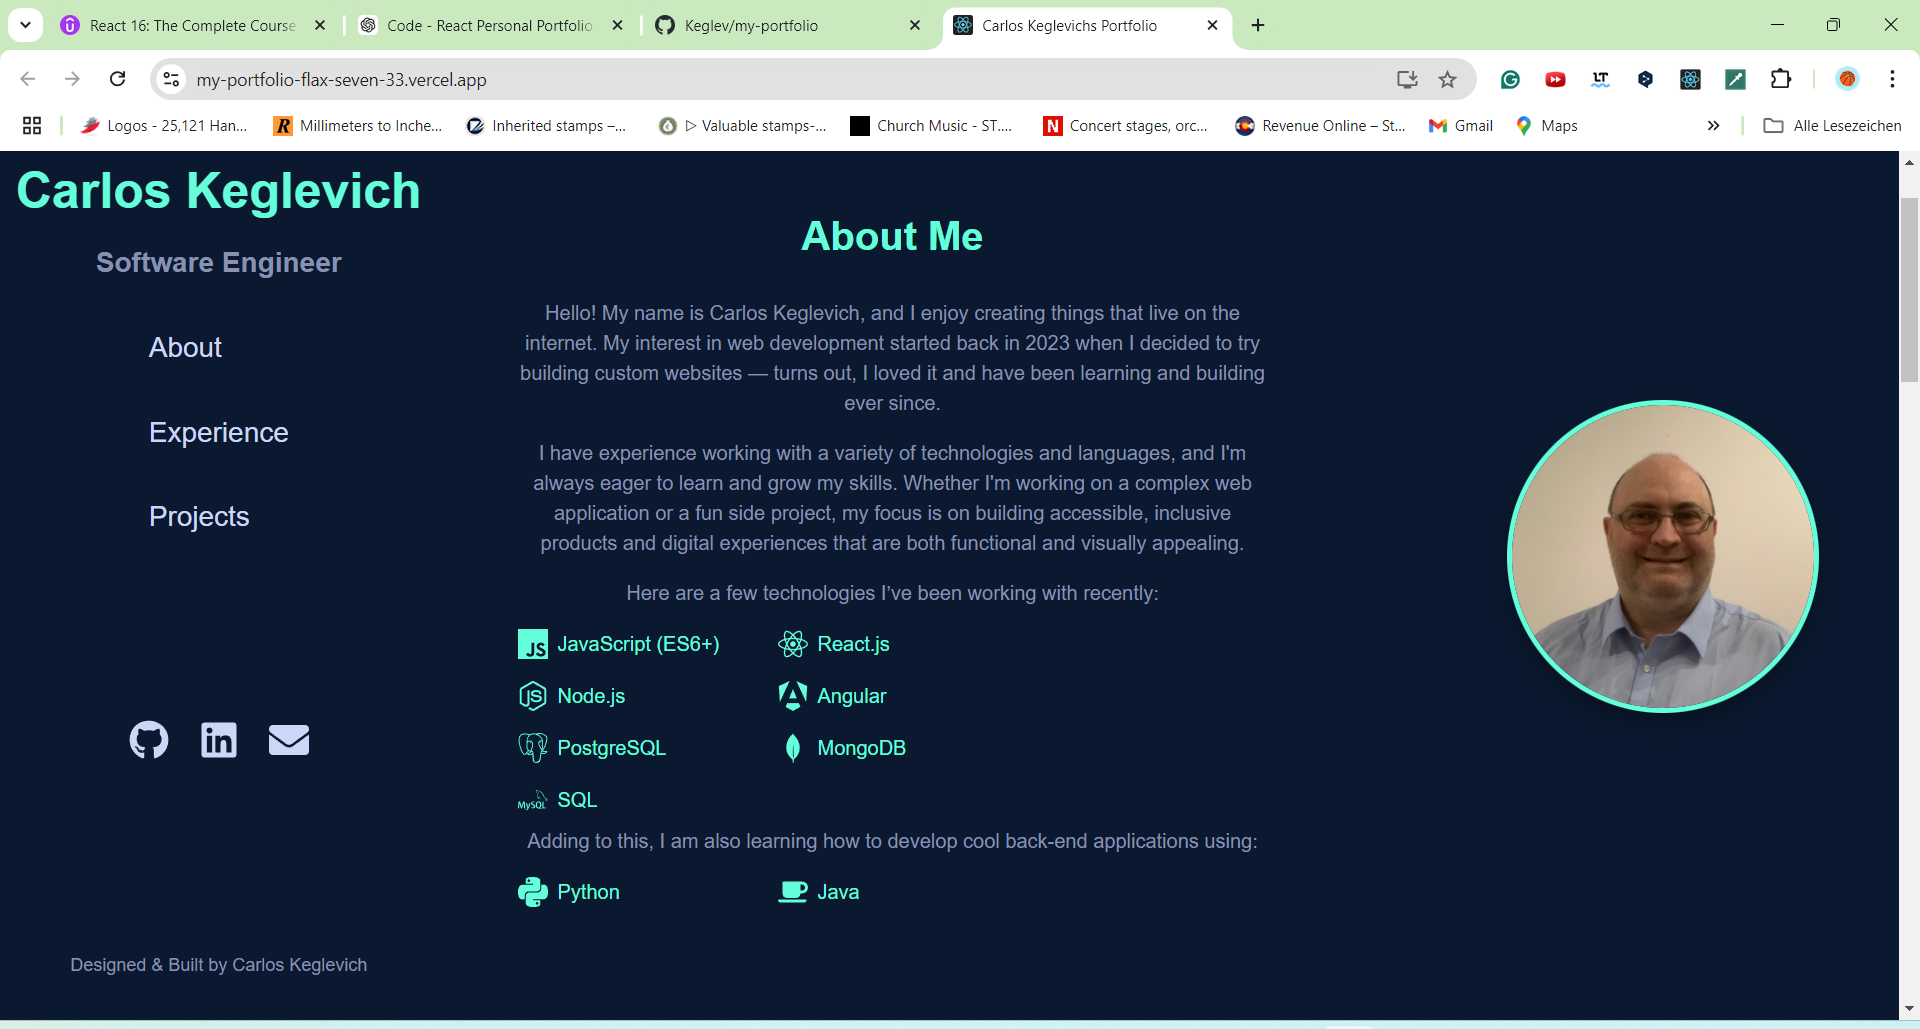
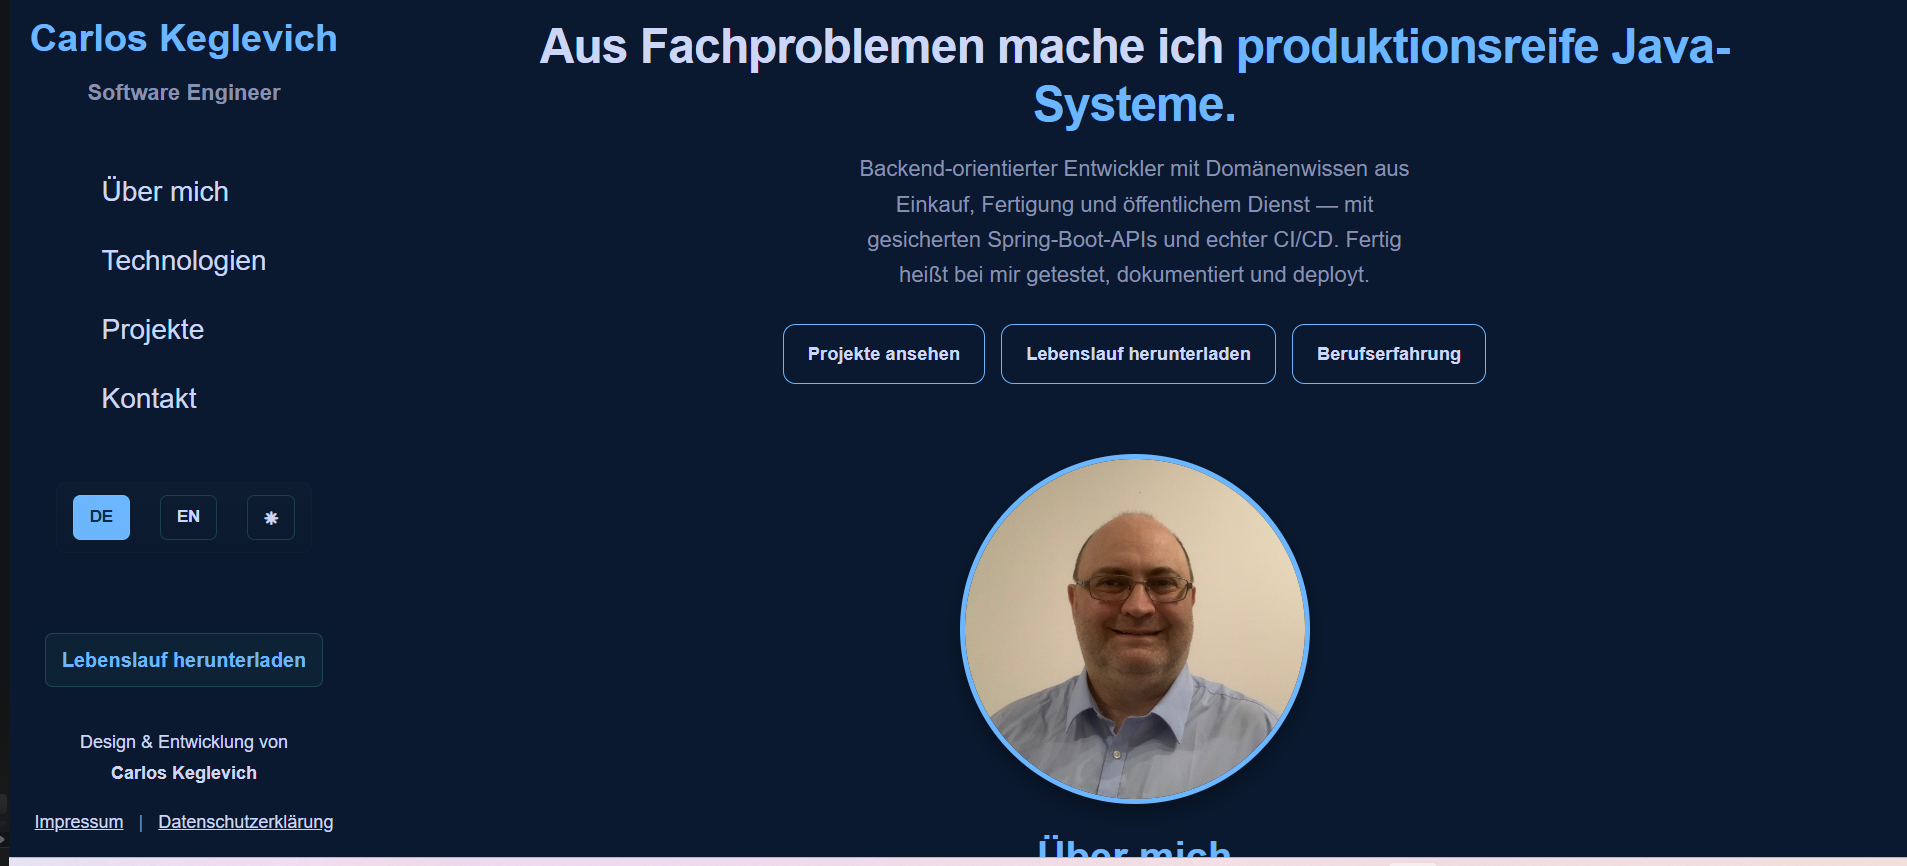
docs: rebuild the README, wire the audit gate, and close out(#45)
* docs: rebuild README to the reference structure

The old README described a project that no longer exists. It documented
`npm run eject`, a `build/` output folder, `REACT_APP_WEB3FORMS_KEY`, and
CRA's own documentation links -- every one of those was wrong after the
Vite migration, and the installation steps it gave would not have produced
a working local run. It also opened with "You can use it for showing your
skills and Portfolio projects too!", which reads as a template someone
forgot to finish.

Rebuilt against the reference skeleton (Keglev/inventory-service),
adapted for a frontend-only project: title and badges, positioning
paragraph, contents, technical highlights, screenshots, architecture
links, tech stack, quick start, testing, CI/CD, license, contact.
120 lines against the reference's 152, and no emoji.

Every factual claim was verified against the tree rather than recalled:

- Badge URLs resolve against the CURRENT workflow filenames -- ci.yml and
  deploy.yml both return 200. coverage.yml exists too but is dispatched
  rather than triggered, so its badge would show the last manual run and
  say nothing about the branch; it is deliberately not shown.
- Every Quick Start command was executed, not assumed: npm ci, npm test
  and npm run build all exit 0, and the build writes dist/index.html.
  The dev server port is 3000, from vite.config.js, not Vite's 5173
  default.
- Node 24 matches .github/actions/node-setup. React 18 and Vite 8 match
[…]

diff --git a/src/__tests__/scripts/ci/detectPipelineScope.test.js b/src/__tests__/scripts/ci/detectPipelineScope.test.js
@@ -107,6 +107,17 @@ describe('detectPipelineScope', () => {
       expect(scope).toEqual({ coverage: false, archDocs: false, deploy: true });
     });
 
+    // The lockfile is what `npm ci` installs from, so a dependency bump that
+    // touches only package-lock.json still changes the deployed bundle. It
+    // must classify like package.json, not fall through to "nothing to do".
+    it('should flag only deploy when package-lock.json changes on its own', () => {
+      const changedFiles = ['package-lock.json'];
+
+      const scope = resolveScope(changedFiles);
+
+      expect(scope).toEqual({ coverage: false, archDocs: false, deploy: true });
+    });
+
     // The Vite migration added vite.config.js and moved index.html to the repo
     // root. Both are build inputs: a change to either can alter the deployed
     // bundle but cannot alter the documented API surface or test coverage, so

diff --git a/scripts/audit-check.js b/scripts/audit-check.js
@@ -7,9 +7,10 @@
  * @enterprise Exits 1 on findings, 2 on execution or parse failure, 0 when
  * clean -- a distinct exit code for parse/exec failure vs. a real finding
  * lets a caller tell "audit itself broke" apart from "audit ran and found
- * problems." Invoked via the audit:ci npm script; not currently wired into
- * any CI workflow step, so it's a manual/local gate a developer runs
- * on demand, not an automated one.
+ * problems." Invoked via the audit:ci npm script, which ci.yml runs in
+ * lint-and-test before the test step: that job has no path filter on
+ * pull_request, so a dependency PR cannot reach main without passing
+ * through here.
  */
 const { exec } = require('child_process');
 

diff --git a/README.md b/README.md
@@ -1,177 +1,126 @@
-# About
-This is a Portfolio Website. It showcases my skills and projects. You can use it for showing your skills and Portfolio projects too!  
+# my-portfolio
 
-# 💼 Description
+**Bilingual (DE/EN) personal portfolio — React 18, Vite, styled-components, deployed on Vercel**
 
-Welcome to my personal portfolio website, showcasing my skills, projects, and experiences as a software engineer. This responsive web application is designed to provide visitors with an insight into my work, technical expertise, and professional journey. Project data is hand-curated as static code in `src/data/projects.config.js`, bundled directly into the build — there is no GitHub API call, at build time or at runtime. The site is fully bilingual (English and German) powered by i18next, and supports a light/dark theme toggle.
+![CI](https://github.com/Keglev/my-portfolio/actions/workflows/ci.yml/badge.svg)
+![Deploy](https://github.com/Keglev/my-portfolio/actions/workflows/deploy.yml/badge.svg)
+![License: MIT](https://img.shields.io/badge/License-MIT-blue.svg)
+
+A single-page portfolio presenting my work as a software engineer: an introduction, a career and education strip, a skills overview, a project showcase, a contact form, and legal notices — every section available in German and English. German is the default locale rather than the fallback, because the intended audience is German-speaking recruiters and employers and the site should open in their language.
+
+The application has no backend of its own. Project data is hand-curated code bundled at build time, and the only outbound request a visitor's browser makes is the contact form's submission. That constraint shapes everything below.
+
+**Live site:** <https://carloskeglevich.de>
+
+---
 
 ## Table of Contents
 
-- [Screenshots](#screenshots)
-- [Features](#features)
-- [Project Status](#projectstatus)
-- [Testing & Code Quality](#Testing-code-quality)
-- [Documentation](#documentation)
-- [API Integration](#API-Integration)
-- [Technologies](#technologies)
-- [Contributing](#contributing)
+1. [Technical Highlights](#technical-highlights)
+2. [Screenshots](#screenshots)
+3. [Architecture & Documentation](#architecture--documentation)
+4. [Tech Stack](#tech-stack)
+5. [Quick Start](#quick-start)
+6. [Testing & Code Quality](#testing--code-quality)
+7. [CI/CD & Deployment](#cicd--deployment)
+8. [License](#license)
+9. [Contact](#contact)
+
+---
+
+## Technical Highlights
+
+- **Internationalisation as structure, not string swapping.** i18next with German configured as the default and English as the fallback. Section content lives in translation catalogues rather than in components, so switching language re-renders from data and no component holds a hard-coded sentence.
+- **A two-theme design token system.** Every colour, spacing, and shadow value is a CSS custom property declared twice — once for dark, once under `[data-theme='light']`. Components reference token *names*, so no component needs to know which theme is active. Card-scoped tokens deliberately invert, keeping cards dark on a light page.
+- **Four-workflow conditional CI/CD.** A change-scope resolver decides which downstream work a push actually needs, then dispatches deployment and documentation publishing *in parallel* rather than in sequence. A documentation edit never rebuilds the app; a source change never waits on docs.
+- **A documentation site, generated and published.** Twelve arc42 chapters and nine architecture decision records, built from Markdown by the project's own scripts and deployed to GitHub Pages with a bilingual landing page.
+- **Coverage enforced per file, not in aggregate.** Every measured module carries its own 85% threshold, with a short list of documented exceptions that each name the uncovered mechanism and the cost of covering it. An aggregate percentage would let a well-covered module hide an untested one.
+
+---
 
 ## Screenshots
 
-# Main image: A screenshot of the homepage showing the layout and header
+Both are the German interface, which is what a first-time visitor sees.
 
-<img src="./docs/assets/readme/project-image.png" alt="Screenshot 1" width="600" height="300"/>
+<img src="docs/assets/readme/project-image.png" alt="Hero section in dark theme and German: sidebar navigation, DE/EN and theme switches, headline, three call-to-action buttons, and a profile photo" width="600"/>
 
-# Image from the projects section: Displays the curated project cards.
+*Hero and profile, dark theme. The sidebar carries the section navigation, the DE/EN switch, and the theme toggle; the same three controls persist on every section.*
 
-<img src="./docs/assets/readme/project-image2.png" alt="Screenshot 2" width="600" height="300"/>
+<img src="docs/assets/readme/project-image2.png" alt="Projects section in light theme and German: two project cards with preview images, descriptions, and technology tags" width="600"/>
 
-## Features
+*Projects, light theme — the same components under the second token set. Each card carries a preview image, a description, and technology tags, all from the hand-curated project data.*
 
-✨ **Interactive Portfolio**: Explore a hero introduction, projects, and skills through a clean and interactive layout.
+---
 
-🖥 **Responsive Design**: Optimized for various screen sizes including mobile, tablet, and desktop.
+## Architecture & Documentation
 
-🌗 **Light/Dark Theme**: Toggle between light and dark themes, persisted across visits.
+The documentation site is the source of truth; this README links into it rather than restating it.
 
-🙋 **About Section**: A brief introduction and background, plus a condensed career/education strip.
+- [Documentation site](https://keglev.github.io/my-portfolio/) — bilingual landing page
+- [Architecture (arc42)](https://keglev.github.io/my-portfolio/architecture/index.html) — twelve chapters, from goals and constraints through building blocks, runtime, deployment, and glossary
+- [Architecture decision records](https://keglev.github.io/my-portfolio/architecture/09-decisions/index.html) — nine ADRs, including the migration off Create React App and the test-runner consolidation
+- [Test coverage report](https://keglev.github.io/my-portfolio/coverage/index.html) — regenerated on every CI run and republished automatically
 
-🧠 **Skills Section**: A single-column overview of skill groups, grouped for fast scanning.
+---
 
-📂 **Projects Showcase**: A detailed presentation of my projects with descriptions, technology tags, and links to the live app, docs, and GitHub repositories.
+## Tech Stack
 
-📬 **Contact Form**: A Web3Forms-backed contact form with DSGVO consent, plus direct social links (GitHub, LinkedIn, Xing, email).
+**Application**
+- React 18, Vite 8
+- styled-components for interactive components; CSS custom properties for the token system
+- i18next and react-i18next (DE/EN), react-scroll for in-page navigation
+- Web3Forms for the contact form — a static-site form backend, so the project needs no server of its own
 
-📄 **Resume Download**: Locale-aware CV download — English or German version served based on the active language.
+**Tooling**
+- Vitest with the istanbul coverage provider — one runner, with a Jest-compatible API
+- ESLint 9 (flat config)
+- GitHub Actions; Vercel for the application, GitHub Pages for documentation and coverage
 
-⚖ **Impressum & Privacy Policy**: German legal notices (Impressum and Datenschutz) accessible directly from the sidebar.
+---
 
-## Project Status
+## Quick Start
 
-- ✅ Complete architecture documentation with component diagrams, data-flow diagrams, CI/CD pipeline overview, and 6 Architecture Decision Records (ADRs)
+Prerequisites: **Node 24** — the version CI uses.
 
-- ✅ Working CI/CD pipeline for build, test, and deployment
+```bash
+git clone https://github.com/Keglev/my-portfolio.git
+cd my-portfolio
+npm ci
 
-### 📚 Documentation Status 
+npm run dev      # development server on http://localhost:3000
+npm test         # full test suite
+npm run build    # production build into dist/
+```
 
-- ✅ **arc42 architecture documentation**: 12 chapters — introduction & goals, constraints, context, solution strategy, building blocks, runtime view, deployment, crosscutting concepts, 6 ADRs, quality requirements, risks & technical debt, and a glossary
+The contact form needs a Web3Forms access key to deliver anything; the rest of the site runs without one. Copy `.env.example` to `.env` and set `VITE_WEB3FORMS_KEY`. The `VITE_` prefix is required — Vite exposes only prefixed variables to client code.
 
-- ✅ **Testing documentation**: two-runner Jest strategy, coverage thresholds, and CI commands (chapter 08c)
-
-- ✅ **Deployment documentation**: Vercel configuration, environment variables, and build pipeline (chapter 07)
+---
 
 ## Testing & Code Quality
 
-### Test Strategy (short note)
+One runner: Vitest, in a jsdom environment, with the istanbul coverage provider. Its Jest-compatible API keeps the assertion and mocking style unchanged across the migration, while the transform pipeline is the application's own.
 
-This repository uses two test runners because the codebase contains both node-only scripts (in `scripts/`) and a Create React App frontend that requires CRA's Jest setup for CSS and asset transforms.
+- **241 tests across 27 files** — components, hooks, context, the i18n catalogues, and the build and CI scripts
+- **Thresholds are enforced in CI, per file.** The build fails when any measured module drops below its own threshold, so a regression cannot be averaged away
+- Each documented exception names the specific uncovered mechanism and what covering it would cost — see [Testing concepts (arc42 §8c)](https://keglev.github.io/my-portfolio/architecture/08c-concepts-testing.html)
+- `npm run audit:ci` fails on any high or critical advisory outside a written allowlist, where every waiver records the dependency path and why it cannot reach a user
 
-- Node-only tests (parsing helpers, scripts) run with a dedicated Jest config: `npm run test:node`.
-- React/frontend tests run with Create React App's test runner: `npm run test:cra` (this is `react-scripts test`).
-- To run both locally: `npm run test:all`.
-- CI-friendly run (non-interactive): `npm run test:ci` (sets `CI=true`).
+---
 
-Still under construction; a more detailed test guide will follow in a separate docs file.
+## CI/CD & Deployment
 
-## Documentation
+Four workflows. `ci.yml` runs lint, the test suite, and coverage on every push and pull request; on a push to `main` it resolves what changed and dispatches `deploy.yml` (always) and `coverage.yml` (only when a source change could have altered the report) at the same time, so deployment and documentation publishing run in parallel. `architecture-docs.yml` sits outside that chain and triggers directly on documentation pushes, which keeps a typo fix out of the build pipeline. Each workflow holds its own concurrency group — a shared one once let a queued documentation run silently cancel the queued deploy, and no build reached production until that was found.
 
-## API Integration
+Deployment ships a prebuilt artifact: GitHub Actions builds the application and hands Vercel a finished `.vercel/output/`, so Vercel performs no build step of its own. The result is smoke-tested against the live domain rather than the generated `*.vercel.app` URL, because a healthy build behind broken DNS should fail the deploy, not pass it.
 
-The app itself makes no third-party API calls at build time or runtime — project data is hand-curated static code, and the only outbound request is the Contact form's submission to Web3Forms.
+---
 
-The test coverage report is published on GitHub Pages:
+## License
 
-https://keglev.github.io/my-portfolio/coverage/index.html
+Released under the [MIT License](LICENSE). Free to use, modify, and distribute, including commercially, with attribution.
 
-You can regenerate it locally with:
+---
 
-```powershell
-npm run test:coverage
-```
-## Architecture docs
+## Contact
 
-Full architecture documentation — component diagrams, data-flow diagrams, CI/CD pipeline overview, a 9-ADR decision log, and a German-language overview — is published on GitHub Pages:
-
-https://keglev.github.io/my-portfolio/
-
-## Instalation
-
-To run this app locally, follow these steps:
-
-1. Ensure you have Node.js and npm installed. If not, download them from Node.js.
-   
-2. Clone the repository:
-
-  git clone https://github.com/Keglev/my-portfolio.git
-
-3. Navigate to the project directory:
-   
-  cd my-portfolio
-
-4. Install the dependencies:
-
-   npm install
-
-5. (Optional, for the Contact form) Create a `.env` file in the project root with a Web3Forms access key:
-
-   REACT_APP_WEB3FORMS_KEY=your-web3forms-access-key
-
-6. Start the development server:
-
-   npm start
-
-## Usage
-
-This app showcases my portfolio: projects, skills, and contact details, rendered from static, hand-curated data (no external fetch), styled with a custom design system that includes a light/dark theme.
-
-## Available Scripts
-
-In the project directory, you can run:
-
-### `npm start`
-
-Runs the app in the development mode.\
-Open [http://localhost:3000](http://localhost:3000) to view it in your browser.
-
-The page will reload when you make changes.\
-You may also see any lint errors in the console.
-
-### `npm test`
-
-Launches the test runner in the interactive watch mode.\
-See the section about [running tests](https://facebook.github.io/create-react-app/docs/running-tests) for more information.
-
-### `npm run build`
-
-Builds the app for production to the `build` folder.\
-It correctly bundles React in production mode and optimizes the build for the best performance.
-
-The build is minified and the filenames include the hashes.\
-Your app is ready to be deployed!
-
-See the section about [deployment](https://facebook.github.io/create-react-app/docs/deployment) for more information.
-
-### `npm run eject`
-
-**Note: this is a one-way operation. Once you `eject`, you can't go back!**
-
-If you aren't satisfied with the build tool and configuration choices, you can `eject` at any time. This command will remove the single build dependency from your project.
-
-## Technologies
-
-- **React 18** (Create React App): Frontend framework for building user interfaces.
-- **styled-components**: CSS-in-JS library for the sidebar's interactive components.
-- **i18next / react-i18next**: Internationalisation, English and German.
-- **react-scroll**: Smooth-scroll navigation between in-page sections.
-- **Web3Forms**: Static-site-friendly contact form backend (native `fetch`, no server of our own).
-- **JavaScript (ES6+)**: Core language used throughout the app.
-- **HTML5 & CSS3**: Standard web technologies for structuring and styling the app.
-
-## Contributing
-
-Contributions are welcome! Here's how you can contribute:
-
-1. Fork the repository.
-2. Create a new branch (git checkout -b feature/YourFeatureName).
-3. Commit your changes (git commit -m 'Add some feature').
-4. Push the branch and open a pull request.
+Questions or suggestions: [open an issue](https://github.com/Keglev/my-portfolio/issues), or use the contact form on the [live site](https://carloskeglevich.de).

diff --git a/docs/architecture/11-risks-technical-debt.md b/docs/architecture/11-risks-technical-debt.md
@@ -12,22 +12,29 @@ purged from both the marker and this list.
 
 **Site:** `vite.config.js`, the `test.coverage.thresholds` block.
 
-**Context:** coverage thresholds are enforced per file through ten glob
+**Context:** coverage thresholds are enforced per file through eleven glob
 groups rather than a project-wide setting, because Vitest applies a
 top-level threshold to *every* file even when a glob entry also matches it —
 which makes documented exceptions unreachable. The groups therefore have to
 partition the measured tree between them.
 
 Nothing currently enforces that partition. A source file matching none of
-the ten globs is silently ungated, and a glob matching no files passes
+them is silently ungated, and a glob matching no files passes
 silently while gating nothing. Both failure modes are invisible in a green
 run: during P10-C step 3 the config passed cleanly at a point when four of
-the ten groups were, in fact, enforcing nothing. That was caught only by
+the groups were, in fact, enforcing nothing. That was caught only by
 replicating Vitest's matcher by hand.
 
 **Proposed fix:** a test that reads the threshold globs and the set of
 measured files, then asserts every file matches exactly one group and every
 group matches at least one file.
+
+**Checked by hand each time the config changes**, which is the interim
+control this entry describes rather than a substitute for it. Most recently
+after `detectPipelineScope.js` gained its own entry: 11 groups, 31 measured
+files, every file matching exactly one group. The count in this entry is
+maintained for the same reason — a stale number here would be the first
+sign the check stopped happening.
 
 **Why deferred:** the test needs the list of measured files, which only
 exists after a coverage run has written `coverage/coverage-summary.json`.
